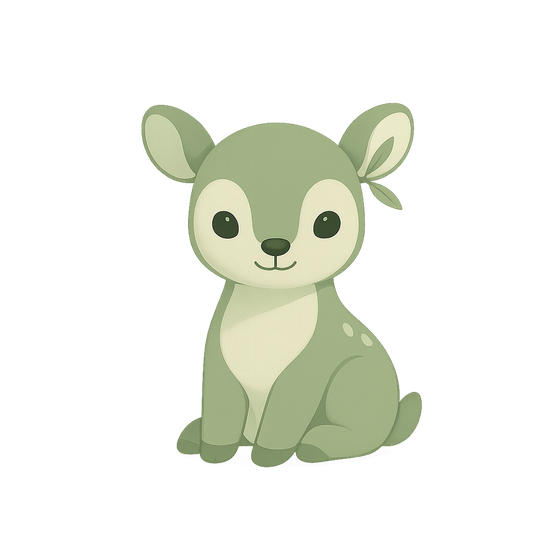
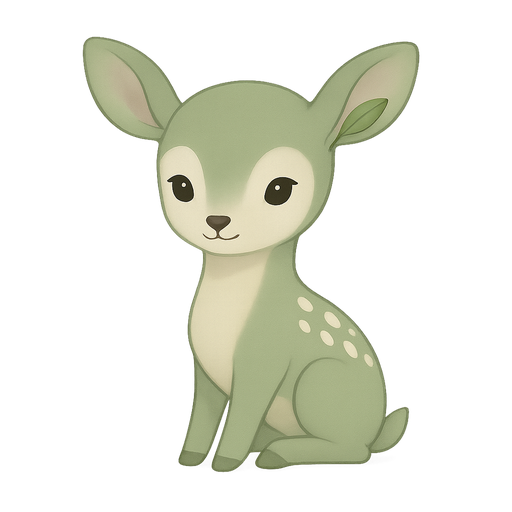
Match Willow portrait to the hero-group fawn
Regenerate Willow as the same delicate, upright sage-green baby fawn
shown in the hero illustration (cream face/belly, soft spots, long ears,
willow leaf) — replacing the off-style standalone render. Bump cache-buster.

Changed region(s): [[0.1562, 0.0625, 0.8438, 0.9375]]

diff --git a/index.html b/index.html
@@ -55,6 +55,15 @@
       --border-strong: rgba(33,53,59,0.18);
       --primary-glow: rgba(62,125,138,0.12);
       --sage-glow: rgba(157,191,168,0.20);
+      /* Per-companion accent discs — the EXACT app accent colours (light mode,
+         from DesignTokens.swift) at 0.18 opacity, mirroring the in-app avatar
+         disc so each companion reads in its own colour on the site as in the app. */
+      --c-willow: rgba(135,164,141,0.18); /* sage  */
+      --c-sage:   rgba(63,130,135,0.18);  /* tide  */
+      --c-river:  rgba(150,177,196,0.18); /* sky   */
+      --c-sol:    rgba(217,141,107,0.18); /* clay  */
+      --c-stone:  rgba(140,155,142,0.18); /* stone */
+      --c-fern:   rgba(169,182,140,0.18); /* fern  */
       --radius: 0.875rem;
       --radius-lg: 1.25rem;
     }
@@ -320,7 +329,14 @@
       transition: transform .2s, box-shadow .2s;
     }
     .companion-card:hover { transform: translateY(-4px); box-shadow: 0 14px 36px rgba(33,53,59,0.08); }
-    .companion-card img { width: 96px; height: 96px; object-fit: contain; margin: 0 auto 10px; display: block; }
+    /* Companion sits on a soft accent disc — same treatment as the in-app avatar. */
+    .companion-card img { width: 104px; height: 104px; object-fit: contain; margin: 0 auto 10px; display: block; border-radius: 50%; padding: 7px; }
+    .companion-card.willow img { background: var(--c-willow); }
+    .companion-card.sage   img { background: var(--c-sage); }
+    .companion-card.river  img { background: var(--c-river); }
+    .companion-card.sol    img { background: var(--c-sol); }
+    .companion-card.stone  img { background: var(--c-stone); }
+    .companion-card.fern   img { background: var(--c-fern); }
     .companion-card .name { font-weight: 800; font-size: 1.1rem; }
     .companion-card .role { color: var(--primary-dark); font-size: 0.82rem; font-weight: 700; margin: 2px 0 8px; text-transform: uppercase; letter-spacing: 0.06em; }
     .companion-card p { color: var(--muted-fg); font-size: 0.92rem; }
@@ -447,7 +463,7 @@
           </div>
         </div>
         <div class="hero-image">
-          <img src="companions/group.png?v=20260624j" alt="The six Quietoak companions sitting together — a fawn, an owl, an otter, a tortoise, a rabbit, and a fox">
+          <img src="companions/group.png?v=20260624j" alt="The six Quietoak companions sitting together — a fawn, an owl, and a fox, with a tortoise, a rabbit, and an otter nestled in front">
         </div>
       </div>
     </div>
@@ -477,7 +493,7 @@
           </ol>
         </div>
         <div>
-          <img class="how-image" src="companions/willow-idle.png?v=20260624j" alt="Willow, a gentle sage-green fawn companion">
+          <img class="how-image" src="companions/willow-idle.png?v=20260624k" alt="Willow, a gentle sage-green fawn companion">
         </div>
       </div>
     </div>
@@ -489,42 +505,43 @@
       <div class="section-eyebrow" style="text-align:center;">The companions</div>
       <h2 style="text-align:center;">Choose the one who <em>fits you.</em></h2>
       <p class="lede" style="text-align:center; margin-left:auto; margin-right:auto;">Six soft nature-spirits, each a different way of showing up. The same companion guides your practice and stays with you in the hard moments.</p>
+      <!-- Order matches the in-app catalog (Companion.swift / onboarding): willow, sage, river, sol, stone, fern. -->
       <div class="companions-grid">
-        <div class="companion-card">
-          <img src="companions/willow-idle.png?v=20260624j" alt="Willow, a fawn">
+        <div class="companion-card willow">
+          <img src="companions/willow-idle.png?v=20260624k" alt="Willow, a fawn">
           <div class="name">Willow</div>
           <div class="role">Grounding</div>
           <p>Warm and quiet. Slows the body down — feet on the floor, one slow breath.</p>
         </div>
-        <div class="companion-card">
-          <img src="companions/stone-idle.png?v=20260624j" alt="Stone, a tortoise">
-          <div class="name">Stone</div>
-          <div class="role">Steady</div>
-          <p>Unhurried and immovable. "We have time. Nothing has to be solved this second."</p>
-        </div>
-        <div class="companion-card">
+        <div class="companion-card sage">
           <img src="companions/sage-idle.png?v=20260624j" alt="Sage, an owl">
           <div class="name">Sage</div>
           <div class="role">Clear</div>
           <p>Calm and plainspoken. Helps you name what's happening and see it clearly.</p>
         </div>
-        <div class="companion-card">
+        <div class="companion-card river">
           <img src="companions/river-idle.png?v=20260624j" alt="River, an otter">
           <div class="name">River</div>
           <div class="role">Encouraging</div>
           <p>Upbeat and honest. "You showed up — that counts. What's the next small win?"</p>
         </div>
-        <div class="companion-card">
-          <img src="companions/fern-idle.png?v=20260624j" alt="Fern, a rabbit">
-          <div class="name">Fern</div>
-          <div class="role">Tender</div>
-          <p>Soft and permission-giving. "You don't have to be okay right now."</p>
-        </div>
-        <div class="companion-card">
+        <div class="companion-card sol">
           <img src="companions/sol-idle.png?v=20260624j" alt="Sol, a fox">
           <div class="name">Sol</div>
           <div class="role">Hopeful</div>
           <p>Warm and low-light, not peppy. "Let's find one warm thing to stand on."</p>
+        </div>
+        <div class="companion-card stone">
+          <img src="companions/stone-idle.png?v=20260624j" alt="Stone, a tortoise">
+          <div class="name">Stone</div>
+          <div class="role">Steady</div>
+          <p>Unhurried and immovable. "We have time. Nothing has to be solved this second."</p>
+        </div>
+        <div class="companion-card fern">
+          <img src="companions/fern-idle.png?v=20260624j" alt="Fern, a rabbit">
+          <div class="name">Fern</div>
+          <div class="role">Tender</div>
+          <p>Soft and permission-giving. "You don't have to be okay right now."</p>
         </div>
       </div>
     </div>
